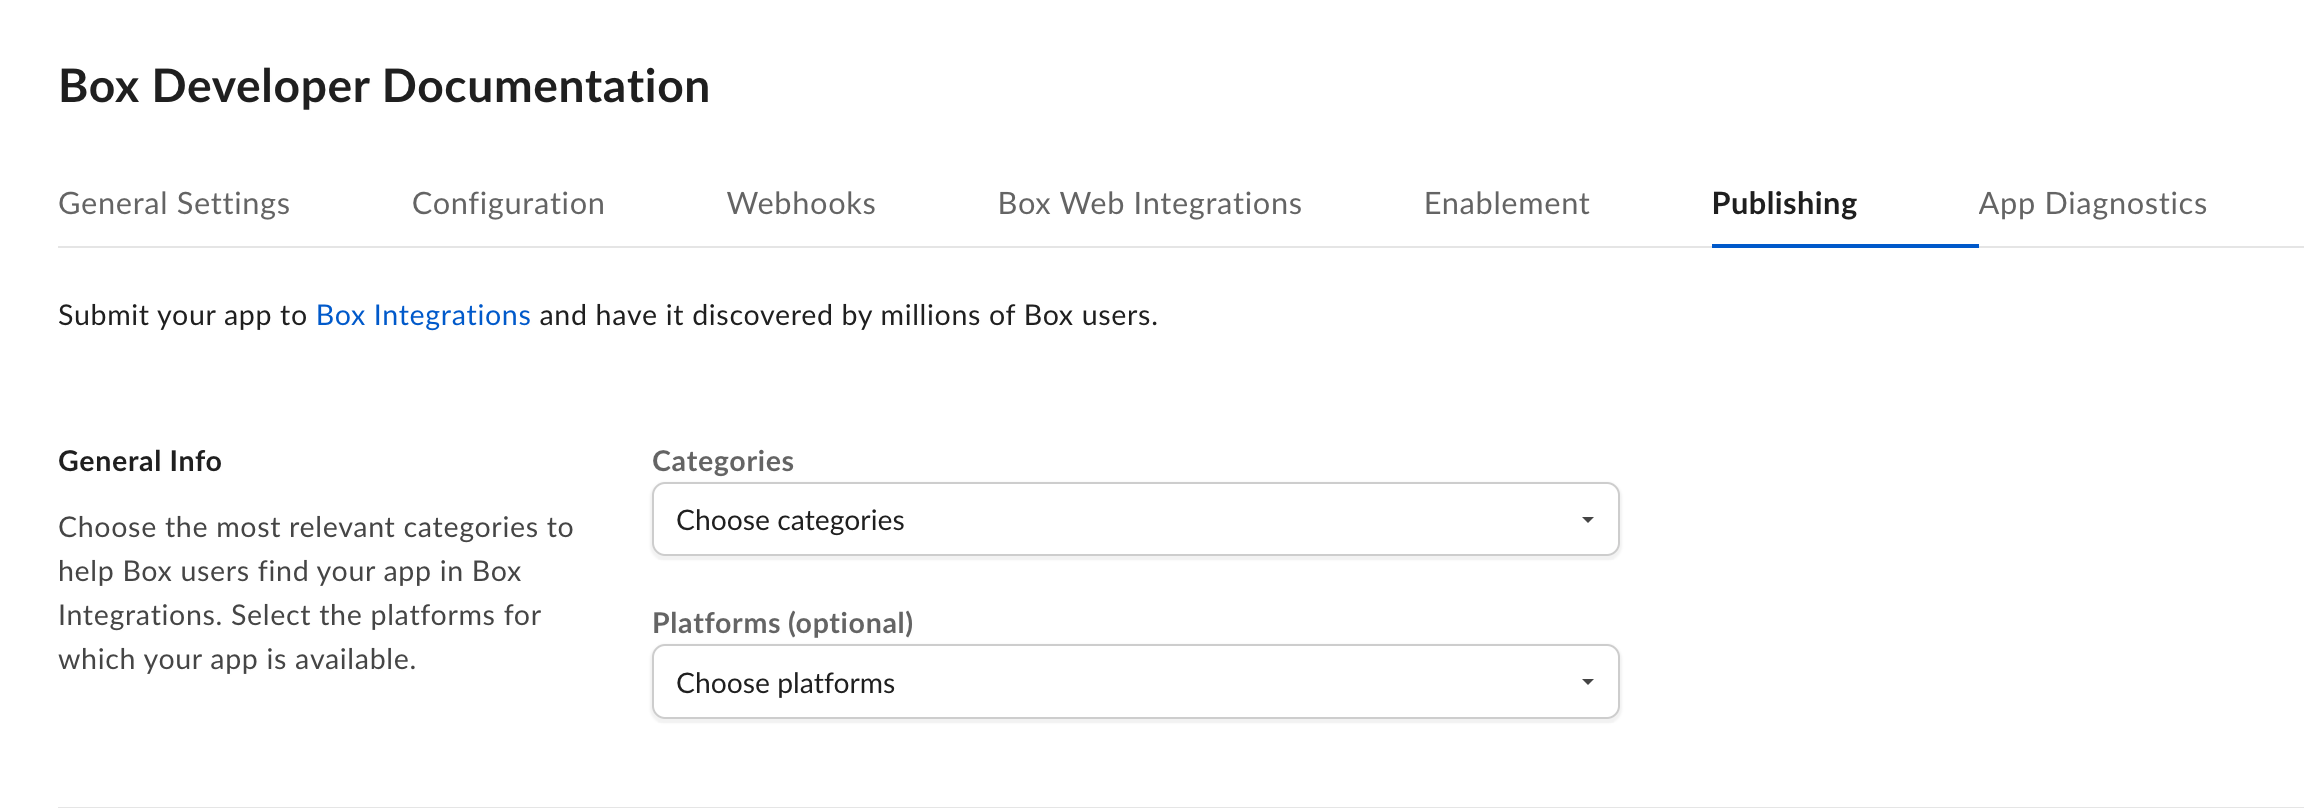
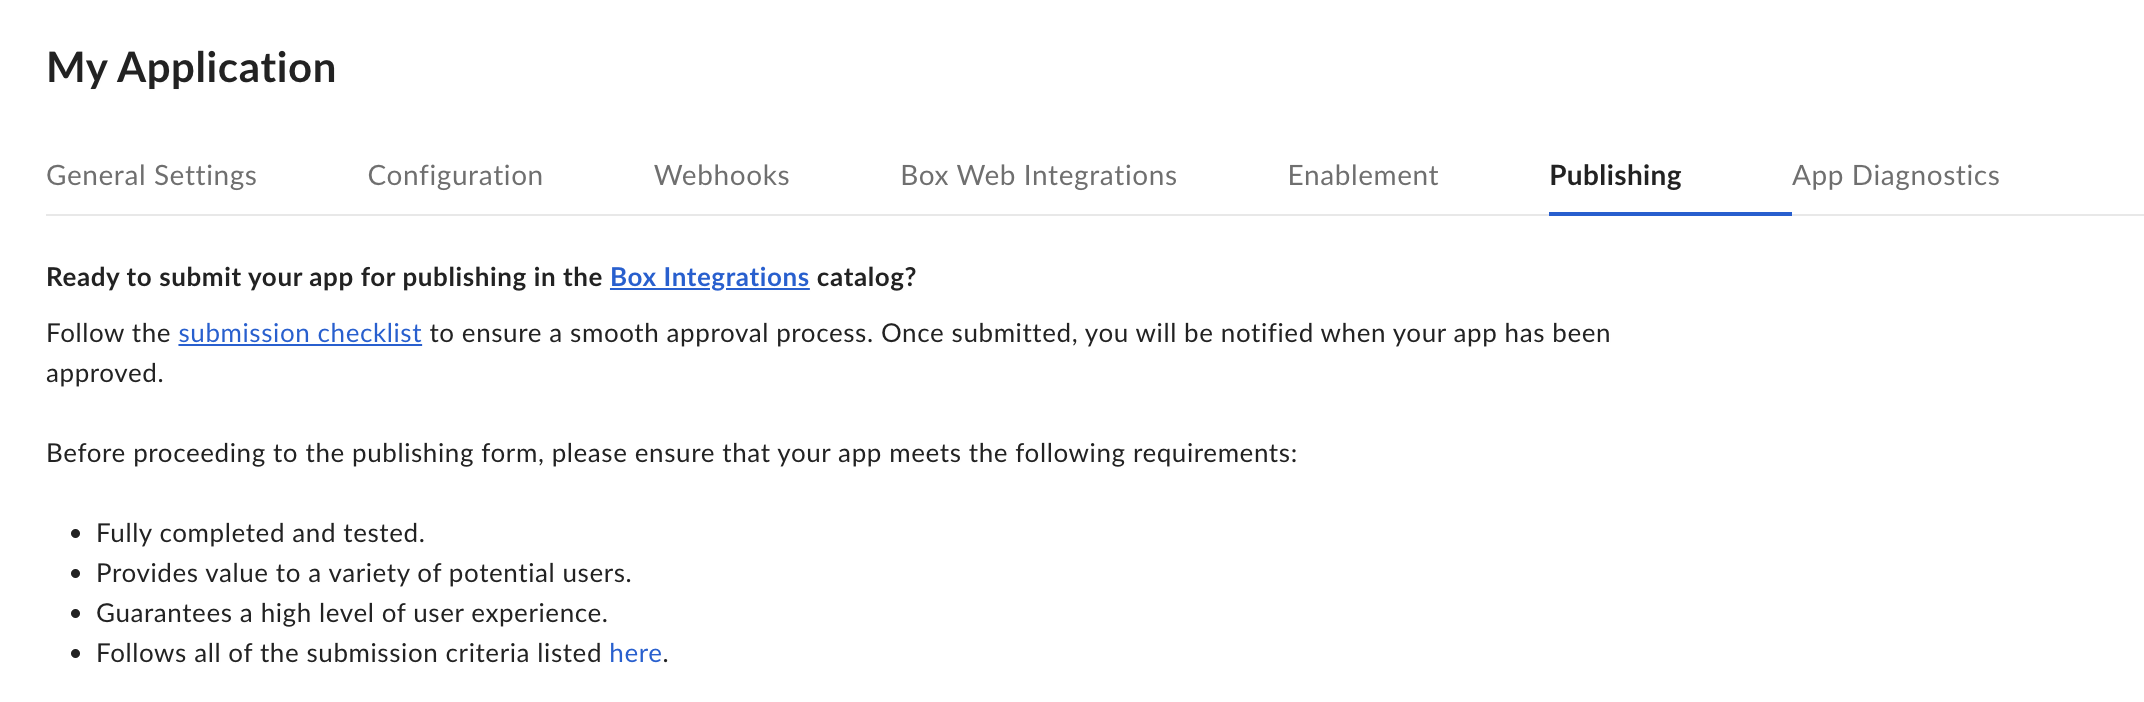
DDOC-1226: update app publishing docs

diff --git a/content/guides/applications/integrations/index.md b/content/guides/applications/integrations/index.md
@@ -14,11 +14,11 @@ alias_paths:
 
 # Integrations
 
-The [Box Integrations][app-center] is the first place for Box users to find out
-about applications that they can use in combination with Box. If your
-application is suited to be used by other enterprises, listing your service in
-the Integrations can be a great way to find new users.
-Integrations groups apps into sections so that you can
+[Box Integrations][app-center] is the first place for Box users to find out
+about applications they can use in combination with Box. If your
+application can be user by other enterprises, listing your service in
+under **Integrations** can be a great way to find new users.
+Integrations group apps into sections so that you can
 quickly find featured, most popular, or recently added apps.
 
   ![Integrations](./images/box-integrations.png)
@@ -36,29 +36,26 @@ Use the following steps to publish an application in Box Integrations.
 Your application must meet the following requirements:
 
 * The application is in a finished state and ready for production usage.
-* The application leverages OAuth 2.0 authentication, as the Integrations does not support any other authentication methods.
+* The application leverages OAuth 2.0 authentication, as Integrations do not support any other authentication methods.
 * You are a developer with access to the application in the [Developer Console][devconsole].
 
 ### Steps
 
-1. Navigate to the [Developer Console][devconsole] and select your application to submit.
+1. Navigate to the [Developer Console][devconsole] > **My Platform Apps** and select the application you want to publish.
 2. Select the **Publishing** tab from the top menu.
 
-    ![Integrations panel](./images/publishing-app.png)
+    ![Publishing tab for an application](./images/publishing-app.png)
 
-3. Fill in the form with your application's categories, a short and a long description, screenshots and an app icon.
-4. Click **Preview** to see a preview of your application listing.
-5. Finally, submit the application for approval by clicking the **Submit for Approval** button.
+3. Read through the submission checklist and check the confirmation checkbox if your application meets all the requirements.
+4. Fill in the form by providing:
 
-<Message>
-  # Approval completion
+    * the categories your application falls under
+    * a short and a long description 
+    * screenshots and an app icon
+    * supplementary information that will be used to support the users
 
-  Once a request for approval is received, the Box Partner team will be
-  notified and review your request as soon as possible.
-
-  For any questions, please email [`integrate@box.com`][email] or submit a
-  support ticket.
-</Message>
+5. Use the **Preview** button in the top left corner to see how your application will look when listed.
+6. Finally, submit the application for approval by clicking the **Submit for Approval** button. Once a request for approval is received, the Box Partner team will be notified and review your request as soon as possible. For any questions, email [`integrate@box.com`][email] or submit a support ticket.
 
 ## Unpublishing an application
 

diff --git a/content/guides/getting-started/publish-app.md b/content/guides/getting-started/publish-app.md
@@ -21,28 +21,21 @@ To publish your app:
 
 1. Open the **Dev Console**.
 2. Select the application you want to publish.
-3. Go to the **Integrations** tab and submit your app.
+3. Go to the **Publishing** tab.
+4. Read through the submission checklist and check the confirmation checkbox if your application meets all the requirements.
+5. The next step is the marketing section of the application, where you need to add the following app information:
 
-This action gives you access to the marketing section of the
-application, where you need to add the following app information:
+    - **General Info** - choose correct categories and platforms for your application to make it easier to find in the Integrations,
+    - **Description** - make sure it contains all information about your application that the customers may find useful,
+        - **Short Description** appears next to your app logo, together with your app name;
+        - **Long Description** is what the users see after they select your app to view its details. You can add clickable links to the long description.
+    - **Screenshots** and **Icon** - provide the screenshots to allow the users see how the app looks like and how it integrates with Box. The icon is needed to represent your app in the list of Integrations.
+    - **Support Resources** - A list of links and supplementary information that will help the users to work with your application.
 
-- **General App Info** - choose correct categories and platforms for your application to make it easier to find in the Integrations,
-- **App Description** - make sure it contains all information about your application that the customers may find useful,
-    - **Short Description** appears next to your app logo, together with your app name;
-    - **Long Description** is what the users see after they select your app to view its details. You can add clickable links to the long description.
+6. Before submitting your app, preview it to see if you included all the necessary information.
+7. Submit your app for approval. Box will review your application and publish it under Integrations.
 
-<Message type='notice'>
-
-Specific guidelines for screenshots and logos are provided in the Dev
-Console.
-
-</Message>
-
-When you're finished with providing the details about your app,
-submit your app for approval. Box will review your application
-and publish it in the Integrations.
-
-In case of any questions or issues, contact the Partners team:
+If you have any questions or issues, contact the **Partners** team:
 [`integrate@box.com`][email]
 
 [integrations]: https://cloud.app.box.com/integrations
